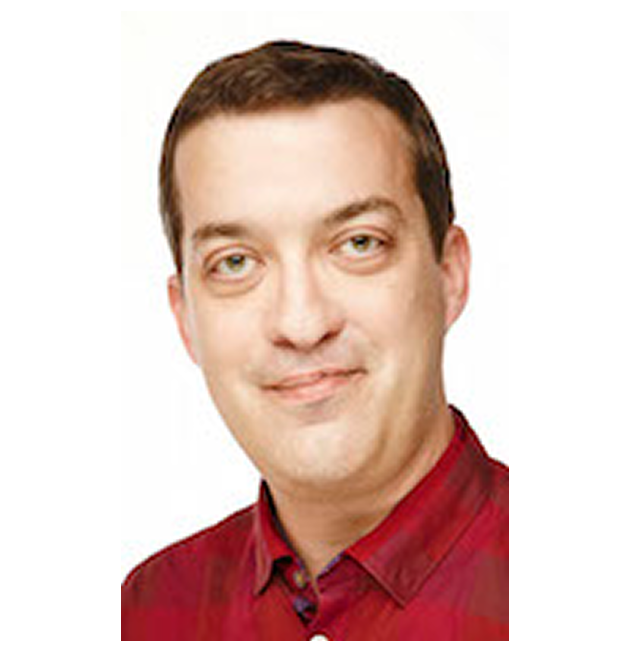
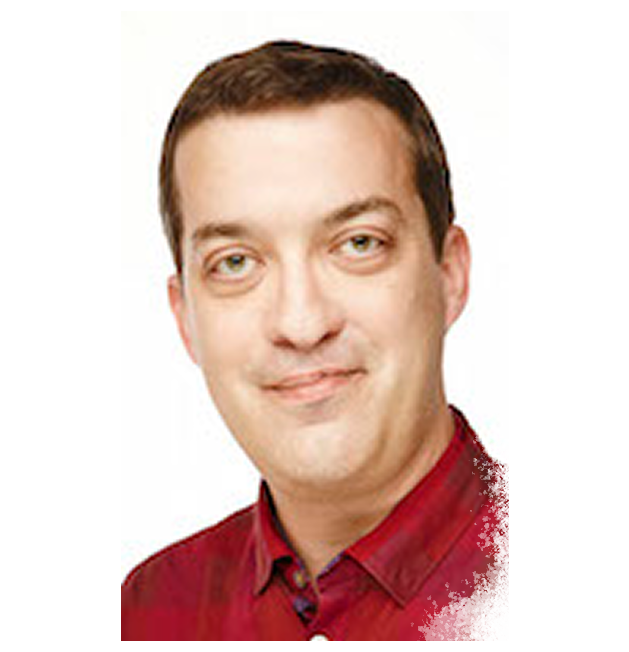
New version of teaser

Changed region(s): [[0.6645, 0.6748, 0.8156, 0.9816]]

diff --git a/index.html b/index.html
@@ -326,12 +326,12 @@
     <header class="relative bg-white pb-20">
         <!-- Hero Illustration -->
         <div class="no-select">
-            <img src="./assets/man_drawing.png" alt="Workshop Illustration" class="w-full h-auto object-cover" />
+            <img src="./assets/man_drawing_v2.png" alt="Workshop Illustration" class="w-full h-auto object-cover" />
         </div>
 
         <!-- Content -->
         <div class="container mx-auto px-6">
-            <div class="max-w-4xl mx-auto text-center relative -mt-32">
+            <div class="max-w-4xl mx-auto text-center relative -mt-48">
                 <!-- <div class="max-w-4xl mx-auto text-center relative mt-10"> -->
                 <!-- Tagline -->
                 <p class="handwritten text-xl md:text-2xl text-gray-700 mb-4">
@@ -362,8 +362,6 @@
                     Sunday, August 10th, 2025 <br>
                     2:00pm - 5:15pm PDT <br>
                     East Building, Room 11 <br>
-                    https://s2025.conference-schedule.org/?filter1=evtt109
-                    <!-- Art, Psychology, and Computer Graphics -->
                 </p>
 
 
@@ -456,22 +454,28 @@
 
                 <div class="mb-12 flex justify-center">
                     <div class="grid md:grid-cols-3 gap-6">
+
                         <div class="text-center transition-transform max-w-xs">
                             <div class="w-32 h-32 rounded-full overflow-hidden border-2 border-gray-400 mx-auto mb-4 relative">
                                 <img src="images/judy_sketch.png" alt="Profile picture" class="w-full h-full object-cover transition-opacity duration-300 hover:opacity-0">
                                 <img src="images/judy.jpg" alt="Profile picture hover" class="w-full h-full object-cover absolute inset-0 opacity-0 transition-opacity duration-300 hover:opacity-100">
                             </div>
-                            <h4 class="handwritten text-2xl font-bold text-gray-900 mb-2">Judith E. Fan</h4>
+                            <a href="https://profiles.stanford.edu/judith-fan" target="_blank" class="hover:underline">
+                                <h4 class="handwritten text-2xl font-bold text-gray-900 mb-2">Judith E. Fan</h4>
+                            </a>
                             <p class="text-xl text-gray-600 font-medium mb-3">Stanford University</p>
                             <p class="text-gray-600 text-sm">Assistant Professor of Psychology directing the Cognitive Tools Lab, studying how people use external representations like drawings to support learning and problem-solving.</p>
                         </div>
+
 
                         <div class="text-center transition-transform max-w-xs">
                             <div class="w-32 h-32 rounded-full overflow-hidden border-2 border-gray-400 mx-auto mb-4 relative">
                                 <img src="images/aaron_sketch.png" alt="Profile picture" class="w-full h-full object-cover transition-opacity duration-300 hover:opacity-0">
                                 <img src="images/aaron.jpg" alt="Profile picture hover" class="w-full h-full object-cover absolute inset-0 opacity-0 transition-opacity duration-300 hover:opacity-100">
                             </div>
-                            <h4 class="handwritten text-2xl font-bold text-gray-900 mb-2">Aaron Hertzmann</h4>
+                            <a href="https://www.dgp.toronto.edu/~hertzman/" target="_blank" class="hover:underline">
+                                <h4 class="handwritten text-2xl font-bold text-gray-900 mb-2">Aaron Hertzmann</h4>
+                            </a>
                             <p class="text-xl text-gray-600 font-medium mb-3">Adobe Research</p>
                             <p class="text-gray-600 text-sm">Principal Scientist exploring the intersection of computer graphics, machine learning, and art, pioneering techniques in stylization and rendering.</p>
                         </div>
@@ -481,7 +485,10 @@
                                 <img src="images/maneesh_sketch.png" alt="Profile picture" class="w-full h-full object-cover transition-opacity duration-300 hover:opacity-0">
                                 <img src="images/maneesh.jpeg" alt="Profile picture hover" class="w-full h-full object-cover absolute inset-0 opacity-0 transition-opacity duration-300 hover:opacity-100">
                             </div>
-                            <h4 class="handwritten text-2xl font-bold text-gray-900 mb-2">Maneesh Agrawala</h4>
+                            <a href="https://graphics.stanford.edu/~maneesh/" target="_blank" class="hover:underline">
+                                <h4 class="handwritten text-2xl font-bold text-gray-900 mb-2">Maneesh Agrawala</h4>
+                            </a>
+
                             <p class="text-xl text-gray-600 font-medium mb-3">Stanford University</p>
                             <p class="text-gray-600 text-sm">Professor of Computer Science and Director of the Brown Institute, focusing on computer graphics, HCI, and visualization with cognitive design principles.</p>
                         </div>
@@ -491,7 +498,9 @@
                                 <img src="images/hongbo_sketch.png" alt="Profile picture" class="w-full h-full object-cover transition-opacity duration-300 hover:opacity-0">
                                 <img src="images/hongbo.png" alt="Profile picture hover" class="w-full h-full object-cover absolute inset-0 opacity-0 transition-opacity duration-300 hover:opacity-100">
                             </div>
-                            <h4 class="handwritten text-2xl font-bold text-gray-900 mb-2">Hongbo Fu</h4>
+                            <a href="https://hongbofu.people.ust.hk/" target="_blank" class="hover:underline">
+                                <h4 class="handwritten text-2xl font-bold text-gray-900 mb-2">Hongbo Fu</h4>
+                            </a>
                             <p class="text-xl text-gray-600 font-medium mb-3">HKUST</p>
                             <p class="text-gray-600 text-sm">Professor and Acting Head of the Division of Arts and Machine Creativity, making sketching a powerful and accessible tool for interaction and design.</p>
                         </div>
@@ -502,7 +511,9 @@
                                 <img src="images/kartik_sketch.png" alt="Profile picture" class="w-full h-full object-cover transition-opacity duration-300 hover:opacity-0">
                                 <img src="images/kartik.jpeg" alt="Profile picture hover" class="w-full h-full object-cover absolute inset-0 opacity-0 transition-opacity duration-300 hover:opacity-100">
                             </div>
-                            <h4 class="handwritten text-2xl font-bold text-gray-900 mb-2">Kartik Chandra</h4>
+                            <a href="https://cs.stanford.edu/~kach/" target="_blank" class="hover:underline">
+                                <h4 class="handwritten text-2xl font-bold text-gray-900 mb-2">Kartik Chandra</h4>
+                            </a>
                             <p class="text-xl text-gray-600 font-medium mb-3">MIT</p>
                             <p class="text-gray-600 text-sm">PhD student connecting computer graphics and cognitive science to understand the foundations of non-photorealistic depiction.</p>
                         </div>
@@ -512,7 +523,9 @@
                                 <img src="images/peter_sketch.png" alt="Profile picture" class="w-full h-full object-cover transition-opacity duration-300 hover:opacity-0">
                                 <img src="images/peter.jpg" alt="Profile picture hover" class="w-full h-full object-cover absolute inset-0 opacity-0 transition-opacity duration-300 hover:opacity-100">
                             </div>
-                            <h4 class="handwritten text-2xl font-bold text-gray-900 mb-2">Peter Schaldenbrand</h4>
+                            <a href="https://pschaldenbrand.github.io/" target="_blank" class="hover:underline">
+                                <h4 class="handwritten text-2xl font-bold text-gray-900 mb-2">Peter Schaldenbrand</h4>
+                            </a>
                             <p class="text-xl text-gray-600 font-medium mb-3">Carnegie Mellon University</p>
                             <p class="text-gray-600 text-sm">PhD candidate at the Robotics Institute creating collaborative AI and robotic assistants for real-world acts of creativity like painting and sculpting.</p>
                         </div>
